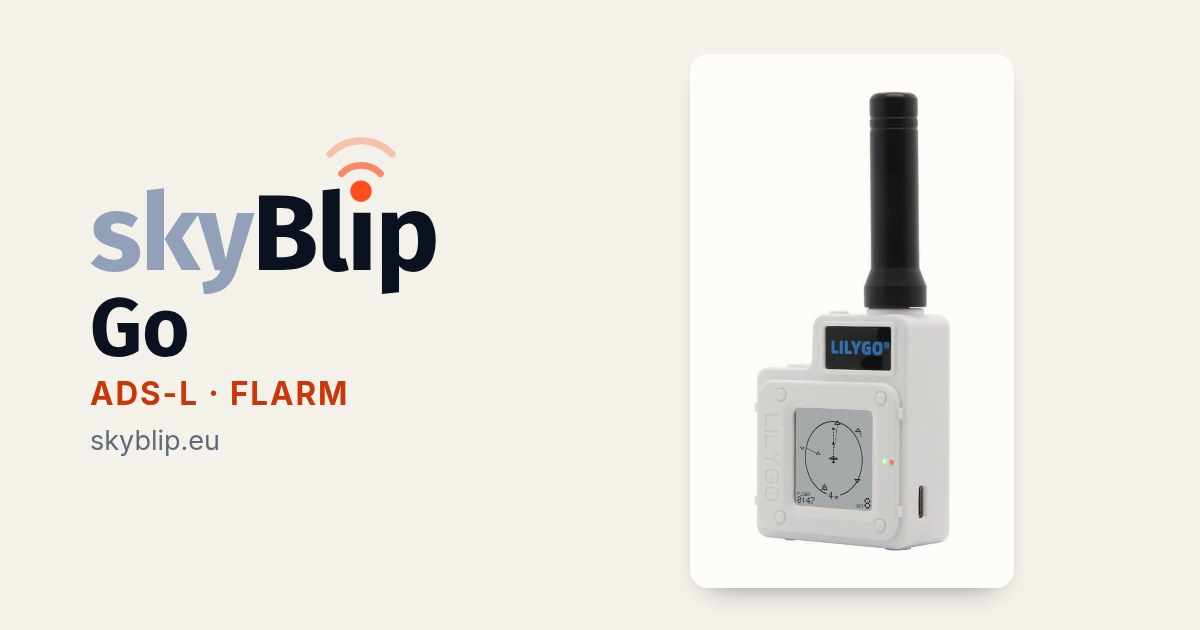
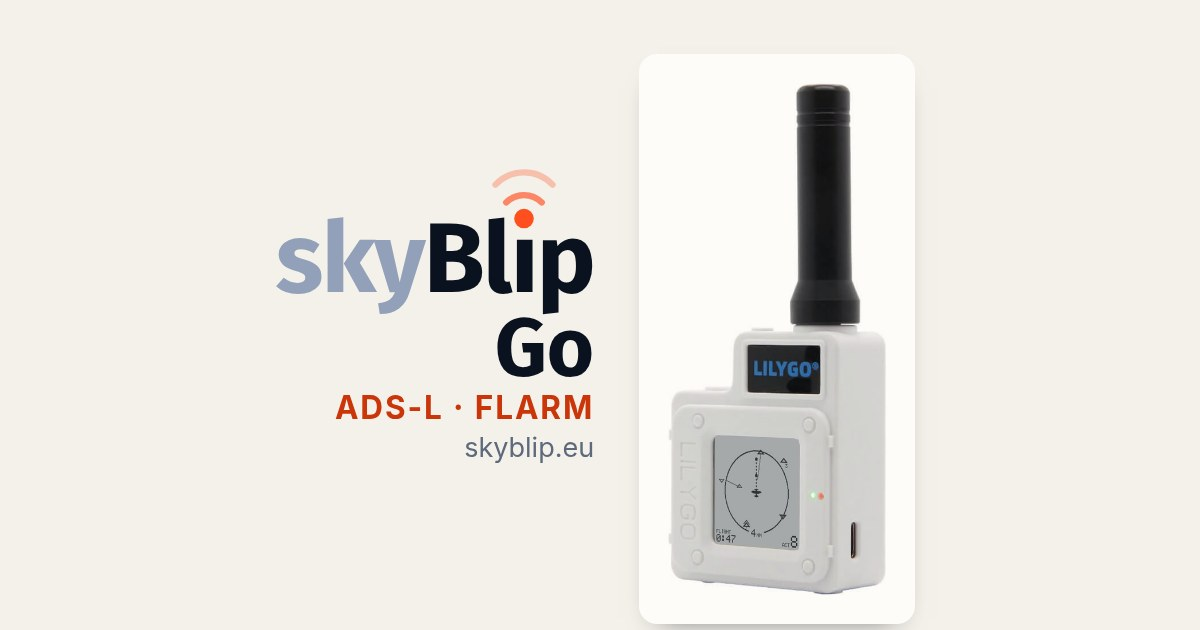
ui(website): show both devices on the Tango share card and keep every card readable in a square crop

diff --git a/server/lib/share_images/card.css b/server/lib/share_images/card.css
@@ -3,61 +3,63 @@
     inline-size: 1200px;
     block-size: 630px;
     margin: 0;
-    padding: var(--space-3xl) var(--space-4xl) var(--space-3xl) 5rem;
-    box-sizing: border-box;
+    padding: var(--space-3xl) 285px var(--space-3xl) var(--space-xl);
     display: grid;
-    grid-template-columns: 26rem 1fr;
-    justify-items: center;
+    grid-template-columns: 1fr auto;
     align-items: center;
-    gap: var(--space-3xl);
+    gap: var(--space-2xl);
     background: var(--paper);
     overflow: hidden;
   }
 
   .card p { margin: 0; }
-  .card-wordmark { font-size: 6rem; }
+  .card-words { justify-self: end; display: grid; justify-items: end; text-align: end; }
+  .card-wordmark { font-size: 5.5rem; }
   .card-name {
     font-family: var(--font-display);
     font-weight: 700;
     font-size: 4.5rem;
     line-height: 1;
     color: var(--ink);
-    margin-block-start: var(--space-xl);
+    margin-block-start: var(--space-l);
   }
-  .card-protocols {
+  .card-protocols, .card-status {
     font-family: var(--font-sans);
     font-weight: 700;
     font-size: 1.75rem;
-    letter-spacing: 0.06em;
+    line-height: 1.2;
+    white-space: nowrap;
     color: var(--blip-text);
-    margin-block-start: var(--space-l);
+    margin-block-start: var(--space-m);
   }
+  .card-protocols { letter-spacing: 0.06em; }
   .card-status {
-    inline-size: fit-content;
-    margin-block-start: var(--space-l);
-    padding: var(--space-xs) var(--space-m);
+    padding: var(--space-2xs) var(--space-s);
     border-radius: var(--space-xs);
     background: var(--blip-soft);
-    color: var(--blip-text);
-    font-family: var(--font-sans);
-    font-weight: 700;
-    font-size: 2.5rem;
-    line-height: 1.15;
   }
   .card-site {
     font-family: var(--font-sans);
     font-size: 1.5rem;
     color: var(--ink-muted);
-    margin-block-start: var(--space-xl);
+    margin-block-start: var(--space-l);
   }
 
-  .card-words { justify-self: start; }
-  .card .shot--photo {
-    padding: var(--space-l) var(--space-3xl);
+  .card-photos {
+    margin: 0;
+    display: flex;
+    align-items: center;
+    gap: var(--space-s);
+    padding: var(--space-m);
     background: var(--card-bg);
     border-radius: var(--space-m);
     box-shadow: 0 14px 28px -20px color-mix(in oklch, var(--ink) 65%, transparent);
   }
-  .card .shot--photo img { max-block-size: 480px; max-inline-size: 520px; box-shadow: none; }
-  .card .diagram svg { inline-size: 36rem; }
+  .card-photos img { mix-blend-mode: multiply; }
+  .card-photo--portrait { block-size: 534px; inline-size: auto; }
+  .card-photo--landscape { inline-size: 330px; }
+  .card-photos .pair-plus { font-size: 2.5rem; }
+  .card-photos:has(.pair-plus) { gap: var(--space-2xs); }
+  .card-photos:has(.pair-plus) .card-photo--portrait { block-size: 380px; }
+  .card-photos:has(.pair-plus) .card-photo--landscape { inline-size: 190px; }
 }

diff --git a/server/lib/share_images.rb b/server/lib/share_images.rb
@@ -2,10 +2,10 @@ class ShareImages
   WIDTH = 1200
   HEIGHT = 630
   CARDS = {
-    "go" => { name: "Go", protocols: "ADS-L · FLARM", photo: "pages/index/skyblip-go-techo.avif" },
+    "go" => { name: "Go", protocols: "ADS-L · FLARM", photos: %w[pages/index/skyblip-go-techo.avif] },
     "radar" => { name: "Go", protocols: "ADS-L · FLARM", screen: "pages/skyblip-go/radar.png" },
-    "bravo" => { name: "Bravo", protocols: "ADS-B 1090 MHz", photo: "pages/skyblip-bravo/seeed-x1.avif", in_development: true },
-    "tango" => { name: "Tango", protocols: "ADS-B · ADS-L · FLARM", diagram: "shared/tango", in_development: true }
+    "bravo" => { name: "Bravo", protocols: "ADS-B 1090 MHz", photos: %w[pages/skyblip-bravo/seeed-x1.avif], in_development: true },
+    "tango" => { name: "Tango", protocols: "ADS-B · ADS-L · FLARM", photos: %w[pages/index/skyblip-go-techo.avif pages/skyblip-bravo/seeed-x1.avif], in_development: true }
   }
   DIRECTORY = Rails.root.join("content_images/share")
   TEMPLATE = Rails.root.join("lib/share_images/card.html.erb")
@@ -15,7 +15,7 @@ class ShareImages
     [ name, (locale if localized?(name)), "jpg" ].compact.join(".")
   end
 
-  def self.localized?(name) = CARDS.fetch(name).values_at(:diagram, :in_development).any?
+  def self.localized?(name) = CARDS.fetch(name).key?(:in_development)
 
   def generate
     require "ferrum"

diff --git a/server/README.md b/server/README.md
@@ -91,7 +91,7 @@ legal:
   host_address: [hosting provider address]
 ```
 
-A link shared on WhatsApp, a forum or a mailing list shows the page's share image, a 1200x630 JPEG under `content_images/share/`: `go` by default, or the card a page names in `share_image` (`radar`, `bravo`, `tango`). The cards are drawn from the site's own wordmark, photos, screens, tokens and fonts by `bin/rails content:share_images:generate`, which renders `lib/share_images/card.html.erb` in Chrome through Ferrum, a test gem, so it runs where the test bundle is installed. A card with words in a language, the Tango diagram or the `Firmware in development` label that Bravo and Tango carry, is drawn once per locale, as `tango.fr.jpg`. The Bravo card shows Seeed's X1 photo, as the Bravo page does. Its alt text lives in `config/locales/` under `share.images`. Run the task again after changing a card or anything it draws from.
+A link shared on WhatsApp, a forum or a mailing list shows the page's share image, a 1200x630 JPEG under `content_images/share/`: `go` by default, or the card a page names in `share_image` (`radar`, `bravo`, `tango`). The cards are drawn from the site's own wordmark, photos, screens, tokens and fonts by `bin/rails content:share_images:generate`, which renders `lib/share_images/card.html.erb` in Chrome through Ferrum, a test gem, so it runs where the test bundle is installed. The Bravo and Tango cards carry a `Firmware in development` label, so they are drawn once per locale, as `tango.fr.jpg`. Bravo shows Seeed's X1 photo, as the Bravo page does, and Tango shows the Go and the X1 side by side. The device name and the device sit inside the centred 630x630 square, the crop WhatsApp and Slack show in a compact preview. Its alt text lives in `config/locales/` under `share.images`. Run the task again after changing a card or anything it draws from.
 
 Images live in `content_images/pages/<slug>/` and are drawn with `pages_image_tag`, or `content_image_tag` with the full path, which read the file's width and height so the page keeps its layout while the image loads. The device screens under `pages/skyblip-go/` are drawn with `screen_image_tag` from whichever page shows them, and they are not artwork: each is the 200x200 framebuffer of the WASM simulator, driven to that state and read out of `simulator_panel()`, so a page that changes on the device is a capture that has to be taken again. They are stored at 200x200 in two colours and scaled by an integer factor on the page (`features.css`), because any other factor resamples a panel pixel.
 
